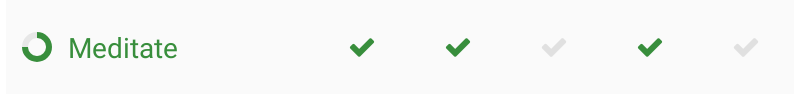
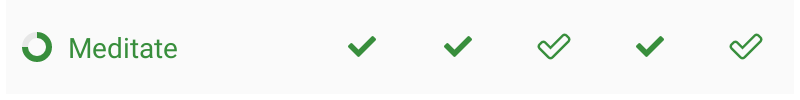
Render YES_AUTO as outlined checkmark

diff --git a/uhabits-android/src/main/java/org/isoron/uhabits/activities/habits/list/views/CheckmarkButtonView.kt b/uhabits-android/src/main/java/org/isoron/uhabits/activities/habits/list/views/CheckmarkButtonView.kt
@@ -117,6 +117,7 @@ class CheckmarkButtonView(
 
     private inner class Drawer {
         private val rect = RectF()
+        private val bgColor = sres.getColor(R.attr.cardBgColor)
         private val lowContrastColor = sres.getColor(R.attr.contrast40)
         private val mediumContrastColor = sres.getColor(R.attr.contrast60)
 
@@ -128,9 +129,7 @@ class CheckmarkButtonView(
 
         fun draw(canvas: Canvas) {
             paint.color = when (value) {
-                YES_MANUAL -> color
-                YES_AUTO -> mediumContrastColor
-                SKIP -> color
+                YES_MANUAL, YES_AUTO, SKIP -> color
                 NO -> {
                     if (preferences.areQuestionMarksEnabled()) mediumContrastColor
                     else lowContrastColor
@@ -146,6 +145,13 @@ class CheckmarkButtonView(
                 }
                 else -> R.string.fa_check
             }
+            if (value == YES_AUTO) {
+                paint.strokeWidth = 5f
+                paint.style = Paint.Style.STROKE
+            } else {
+                paint.strokeWidth = 0f
+                paint.style = Paint.Style.FILL
+            }
 
             paint.textSize = when (value) {
                 UNKNOWN -> dim(R.dimen.smallerTextSize)
@@ -158,6 +164,12 @@ class CheckmarkButtonView(
             rect.set(0f, 0f, width.toFloat(), height.toFloat())
             rect.offset(0f, 0.4f * em)
             canvas.drawText(label, rect.centerX(), rect.centerY(), paint)
+
+            if (value == YES_AUTO) {
+                paint.color = bgColor
+                paint.style = Paint.Style.FILL
+                canvas.drawText(label, rect.centerX(), rect.centerY(), paint)
+            }
         }
     }
 }
